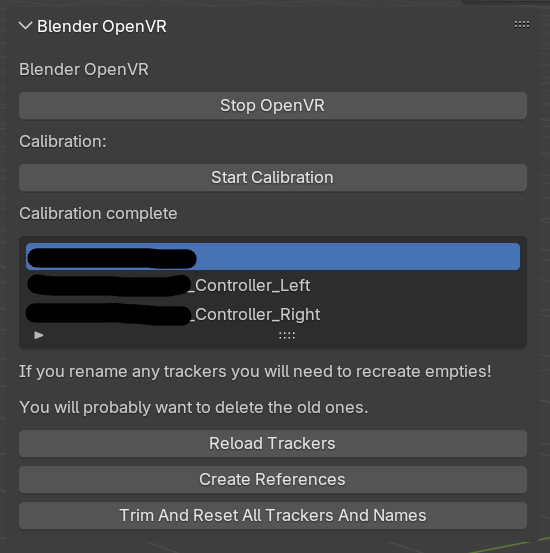
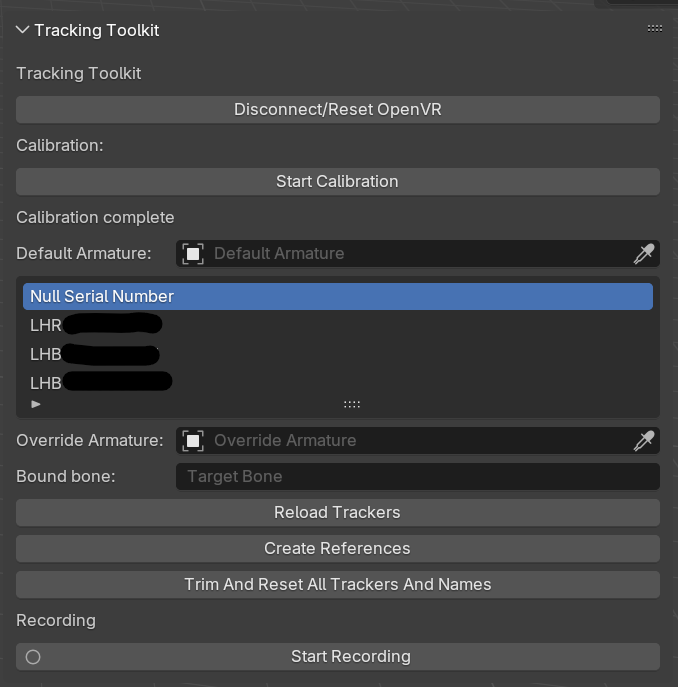
Added bone binding, fixed scaling issue, updated readme for new features

diff --git a/tracking_toolkit/properties.py b/tracking_toolkit/properties.py
@@ -10,7 +10,7 @@ class OVRTransform(bpy.types.PropertyGroup):
 
 
 class OVRTarget(bpy.types.PropertyGroup):
-    object: bpy.props.StringProperty(name="Target object")
+    object: bpy.props.PointerProperty(name="Target object", type=bpy.types.Object)
     transform: bpy.props.PointerProperty(type=OVRTransform)
     calibration_transform: bpy.props.PointerProperty(type=OVRTransform)
 
@@ -30,6 +30,45 @@ def tracker_name_change_callback(self: bpy.types.bpy_struct, context):
     self.prev_name = self.name
 
 
+def armature_filter(self: bpy.types.bpy_struct, obj: bpy.types.ID) -> bool:
+    if obj.type != "ARMATURE":
+        return False
+
+    is_linked = obj.library
+    if is_linked:
+        # Only show overridden objects
+        if not obj.override_library:
+            return False
+
+    return True
+
+
+def armature_bone_list(self: bpy.types.bpy_struct, context, edit_text):
+    armature = self.armature or context.scene.OVRContext.armature
+    return [b.name for b in armature.data.bones]
+
+
+def tracker_binding_change_callback(self: bpy.types.bpy_struct, context):
+    armature: bpy.types.Object = self.armature or context.scene.OVRContext.armature
+
+    bound_bone: bpy.types.PoseBone = armature.pose.bones.get(self.bone)
+    prev_bone: bpy.types.PoseBone = armature.pose.bones.get(self.prev_bone)
+
+    # Remove existing constraint
+    if prev_bone:
+        constraint = prev_bone.constraints.get("Tracker Binding")
+        if constraint:
+            prev_bone.constraints.remove(constraint)
+
+    # Create new constraint
+    if bound_bone:
+        constraint = bound_bone.constraints.new("COPY_TRANSFORMS")
+        constraint.name = "Tracker Binding"
+        constraint.target = self.joint.object
+
+        self.prev_bone = bound_bone.name
+
+
 class OVRTracker(bpy.types.PropertyGroup):
     index: bpy.props.IntProperty(name="OpenVR name")
     name: bpy.props.StringProperty(name="Tracker name", update=tracker_name_change_callback)
@@ -41,6 +80,11 @@ class OVRTracker(bpy.types.PropertyGroup):
 
     target: bpy.props.PointerProperty(type=OVRTarget)
     joint: bpy.props.PointerProperty(type=OVRTarget)  # Joint offset
+
+    bone: bpy.props.StringProperty(name="Bound bone", search=armature_bone_list, update=tracker_binding_change_callback)
+    prev_bone: bpy.props.StringProperty(name="Previously bound bone")
+
+    armature: bpy.props.PointerProperty(name="Override armature", type=bpy.types.Object, poll=armature_filter)
 
 
 class OVRContext(bpy.types.PropertyGroup):
@@ -54,6 +98,8 @@ class OVRContext(bpy.types.PropertyGroup):
     offset: bpy.props.PointerProperty(type=OVRTransform, name="Tracker offset")
 
     record_start_frame: bpy.props.IntProperty(name="Recording start frame", default=0)
+
+    armature: bpy.props.PointerProperty(name="Default Armature", type=bpy.types.Object, poll=armature_filter)
 
 
 class Preferences(bpy.types.AddonPreferences):

diff --git a/tracking_toolkit/ui.py b/tracking_toolkit/ui.py
@@ -66,6 +66,9 @@ class OpenVRPanel(View3DPanel, bpy.types.Panel):
         layout.operator(ToggleCalibrationOperator.bl_idname, text=calibrate_btn_label)
         layout.label(text=calibrate_hint)
 
+        # Default armature
+        layout.prop(ovr_context, "armature", placeholder="Default Armature")
+
         # Tracker management
         layout.template_list(
             "PANEL_UL_TrackerList",
@@ -77,6 +80,12 @@ class OpenVRPanel(View3DPanel, bpy.types.Panel):
             rows=len(ovr_context.trackers),
             type="DEFAULT"
         )
+
+        # Bone binding
+        selected_tracker = ovr_context.trackers[ovr_context.selected_tracker]
+
+        layout.prop(selected_tracker, "armature", placeholder="Override Armature")
+        layout.prop(selected_tracker, "bone", placeholder="Bound Bone")
 
         # Reload tracker button
         layout.operator(ReloadTrackersOperator.bl_idname, text="Reload Trackers")

diff --git a/tracking_toolkit/tracking.py b/tracking_toolkit/tracking.py
@@ -38,7 +38,6 @@ def _get_poses(ovr_context: OVRContext) -> Generator[tuple[datetime.datetime, OV
         # Apply scale
         root = bpy.data.objects.get("OVR Root")
         if root:
-            mat_world.translation = mat_world.translation * (root.scale * 2)
             mat_world = mat_world @ Matrix.Scale(root.scale.length, 4)
 
         yield time, tracker, mat_world
@@ -95,6 +94,7 @@ def _apply_poses():
             continue
 
         tracker_obj.matrix_world = pose
+        tracker_obj.scale = (1, 1, 1)
 
 
 def _pose_vis_timer():

diff --git a/tracking_toolkit/operators.py b/tracking_toolkit/operators.py
@@ -277,9 +277,9 @@ class CreateRefsOperator(bpy.types.Operator):
                 tracker_joint.show_in_front = True
                 tracker_target.hide_render = True
 
-            # Assign names
-            tracker.target.target = tracker_target.name
-            tracker.target.joint = tracker_joint.name
+            # Assign objects
+            tracker.target.object = tracker_target
+            tracker.joint.object = tracker_joint
 
             # Set up parenting
             tracker_target.parent = root_empty

diff --git a/README.md b/README.md
@@ -92,6 +92,19 @@ When you press the space bar, the realtime tracking will temporarily pause and t
 
 It is encouraged to save each successful take to an NLA track, so it doesn't get overwritten.
 
+
+## Binding bones
+
+You can use the `Default Armature`, `Override Armature`, and `Bound Bone` property fields to bind bones to trackers:
+
+* `Default Armature` is the main armature the bones are a part of. You will set this to the armature you want to control.
+
+* `Override Armature` is a per-tracker armature that can be set when you want to control multiple armatures at the same time. Usually, you will leave this blank.
+
+* `Bound Bone` is the bone you want to bind the tracker joint to. This will add a `Copy Transforms` constraint.
+
+Do not rename the crated constraint, otherwise it will fail to remove itself when you select a different bone.
+
 ## Troubleshooting
 
 You will probably experience some sort of issue as this extension is being refined.
